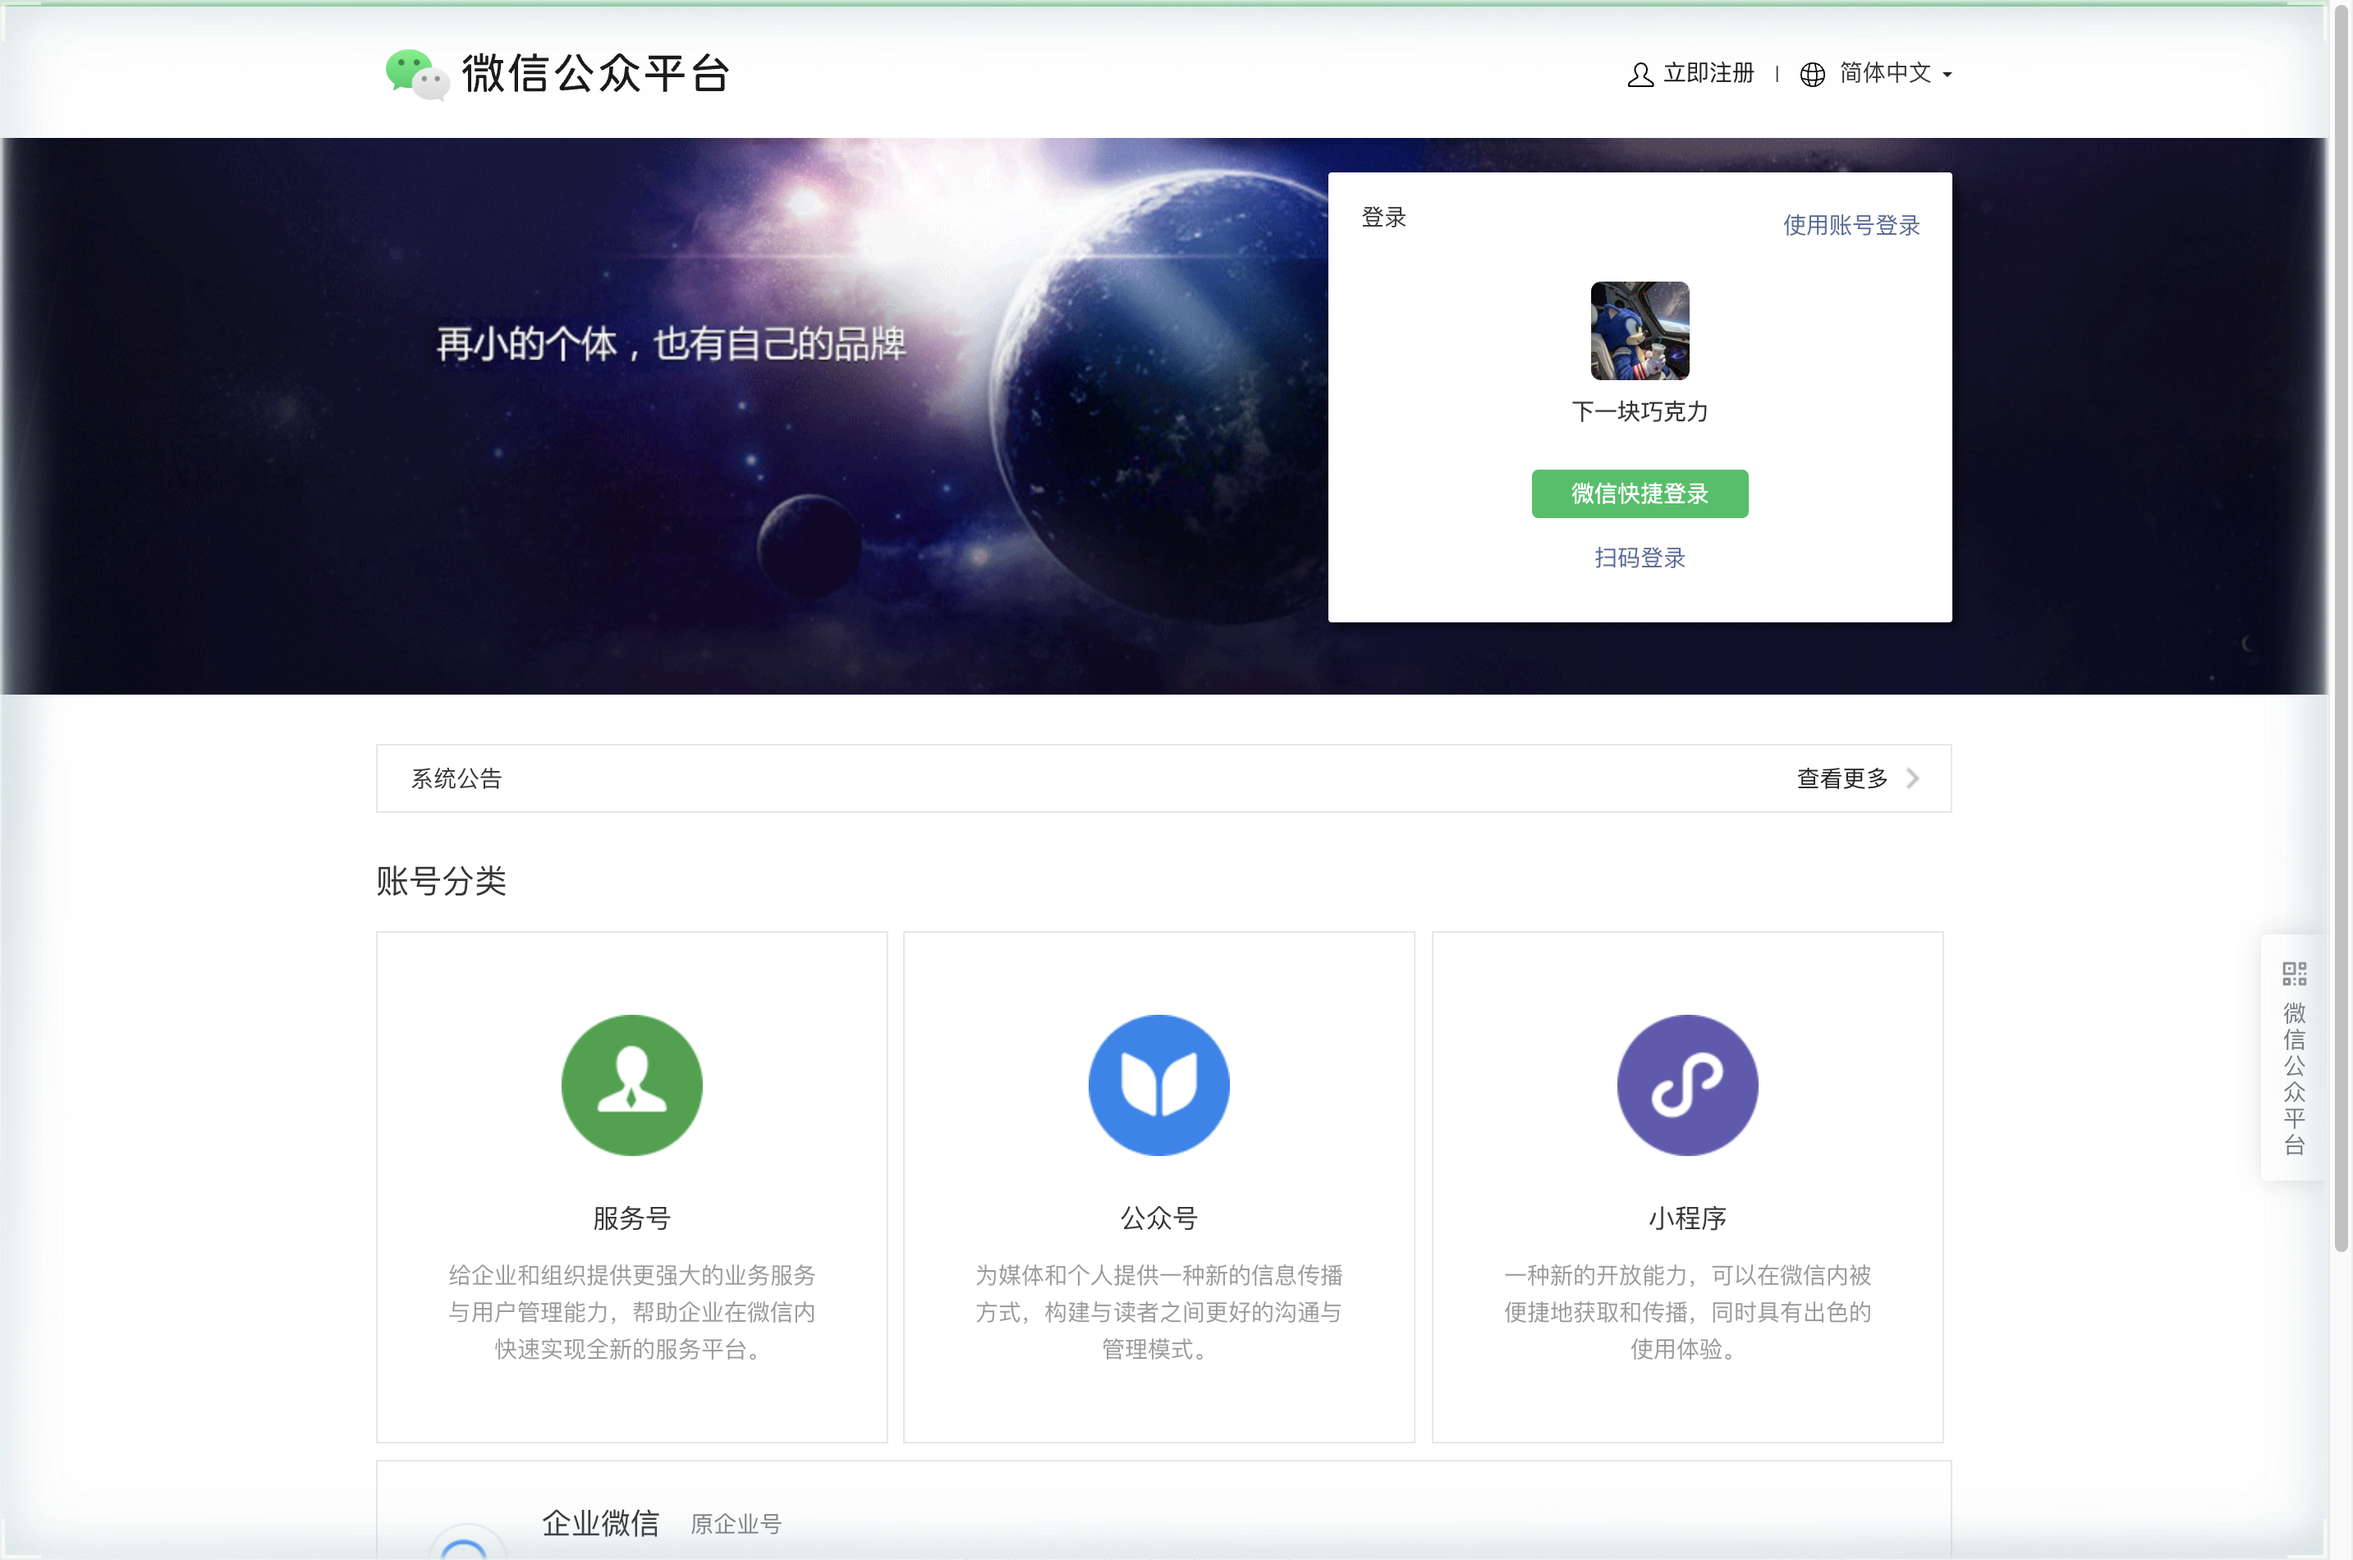
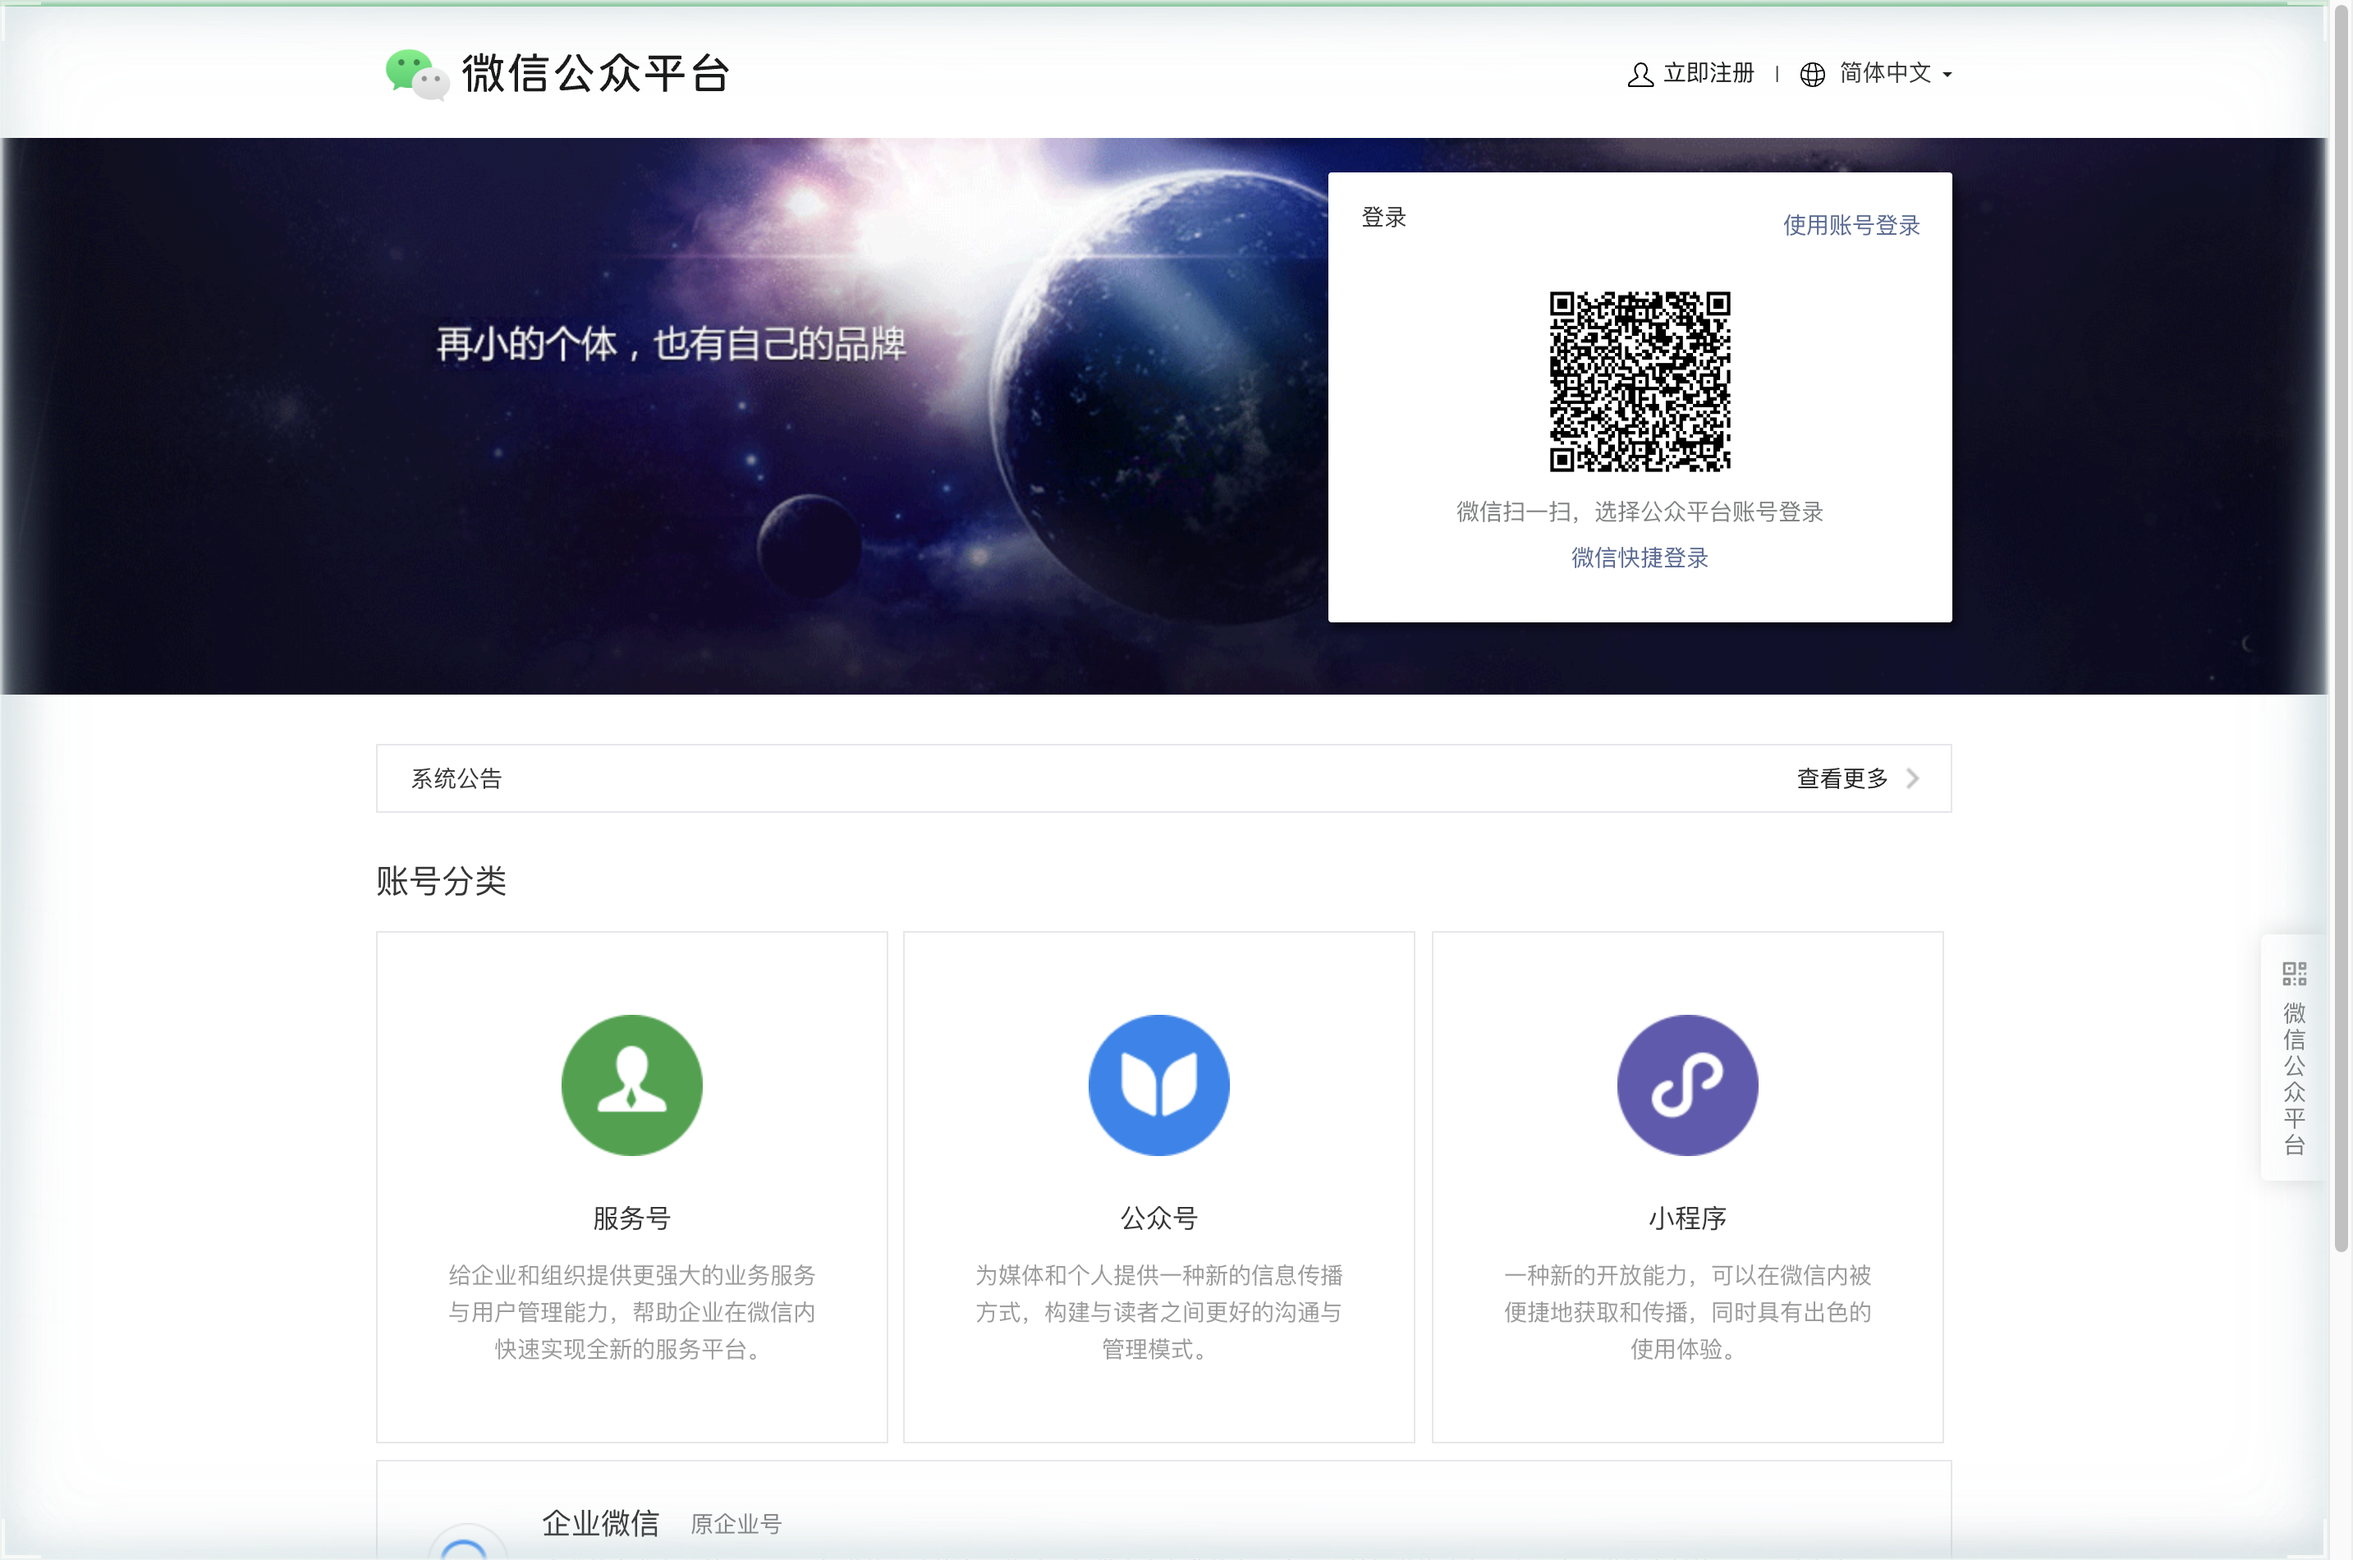
docs: 体验版 0.7.0 官方二维码（10月12日前有效）

Changed region(s): [[0.6211, 0.1553, 0.7763, 0.3726]]

diff --git a/docs/deploy.md b/docs/deploy.md
@@ -29,7 +29,8 @@
    - 顺带修掉：`pages/ledger/ledger.wxss` 尾部混入了两行 shell 残留（`JSEOF` / `echo written`），导致整包 WXSS 编译失败；已删除并补齐账本页缺失样式。另把 `.flow/.fic/.f-t/.f-a/.tabs/.tab/.kv/.sheet-lb/.link/.stack` 提到 `app.wxss` 统一，欠款/报表/库存页的分段控件原来没有样式（竖着堆）。
    - 自检：`node --test miniprogram/tests/*.test.js` → 51/51；`node scripts/check-miniprogram.js` → 25 页 + keypad 全通过；模拟器逐页截图存 `docs/design/verify/`
    - **上传记录**：2026-10-05 `upload --upload-version 0.7.0`，代码包 517,578 B（TOTAL 1 个包），`taskId=confirmation_upload_572b3961…` 经 IDE 确认后 `execution_success`
-   - **待办**：官方体验版二维码待取（mp.weixin.qq.com 登录已超时，需扫一次微信登录码后从「管理 → 版本管理 → 开发版本 → 体验版二维码」保存到 `docs/`）；真机回归待扫码
+   - **官方体验版二维码**：`docs/trial-qr-0.7.0.png`（mp.weixin.qq.com → 管理 → 版本管理 → 开发版本 → 体验版 → 下载二维码；路径 `pages/index/index`，**该二维码 10 月 12 日前有效**）
+   - **待办**：真机扫码回归（体验版 0.7.0）
 > - 小程序名已变更为 **田祖记**（原名 Londdon123kkk，改名审核已生效）
 > - **2026-10-01：体验版 `0.5.0` 已上传**（参谋问答全面切换大模型多智能体：新增云函数 `advisorAgent`（DeepSeek 原生 tool-calling loop，9 个只读工具按 openid 隔离 + draft_* 起草工具，写操作必须农户确认才落库）；`chat.js` 重写，删除全部本地对话规则与 `nlu.js`，失败只诚实报错；模型简化为 deepseek-flash / deepseek-v4-pro（BYOK，Key 只存云端）。**注意：CLI/IDE 部署不会应用 config.json 的 timeout**，advisorAgent 60s / advisorChat 30s 是走 `/tcb/getqcloudtoken` 换腾讯云凭证后直调 SCF `UpdateFunctionConfiguration` 改的；实测数据问/农技问/天气问/起草/多轮/客户端 send 全链路通过）
 > - 地理位置接口申请（`wx.chooseLocation` + `wx.getFuzzyLocation`）**审核中**；未批前上传会报 `-80424 ... is not authorized`
